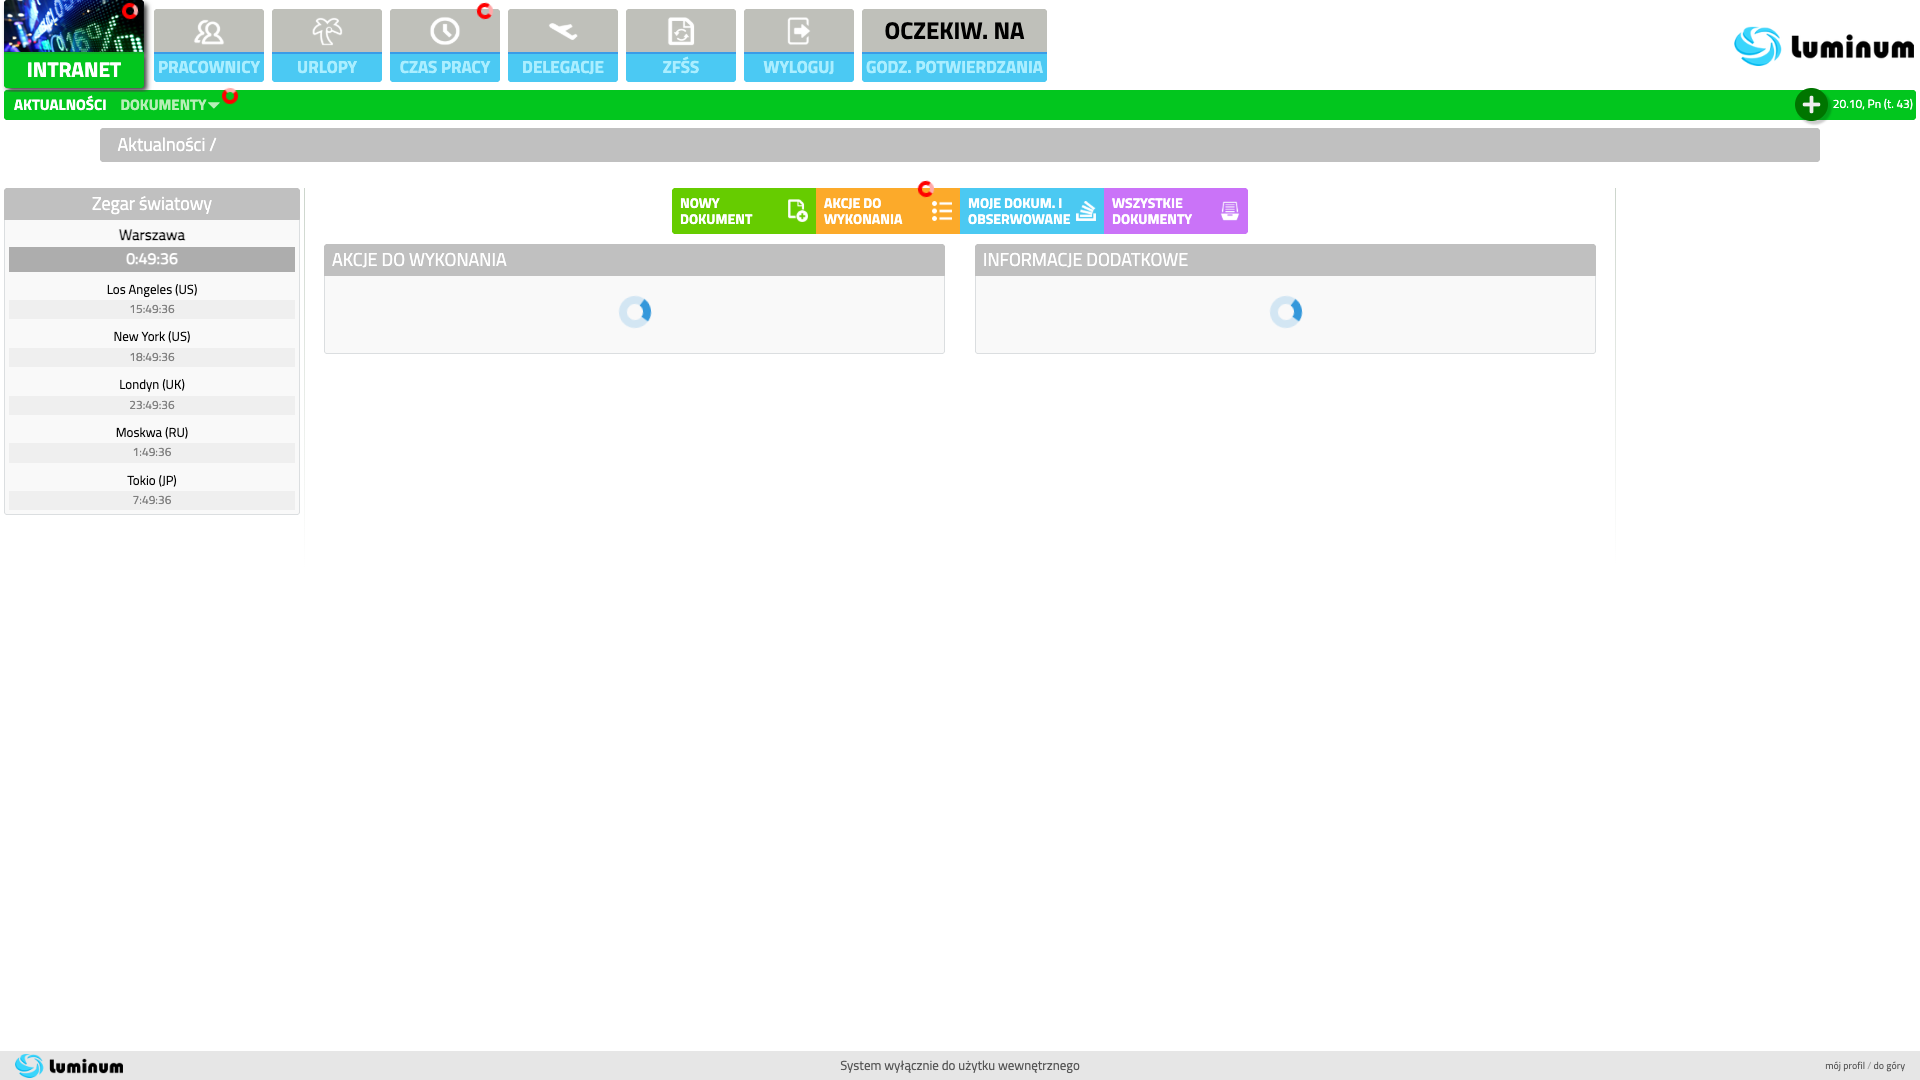
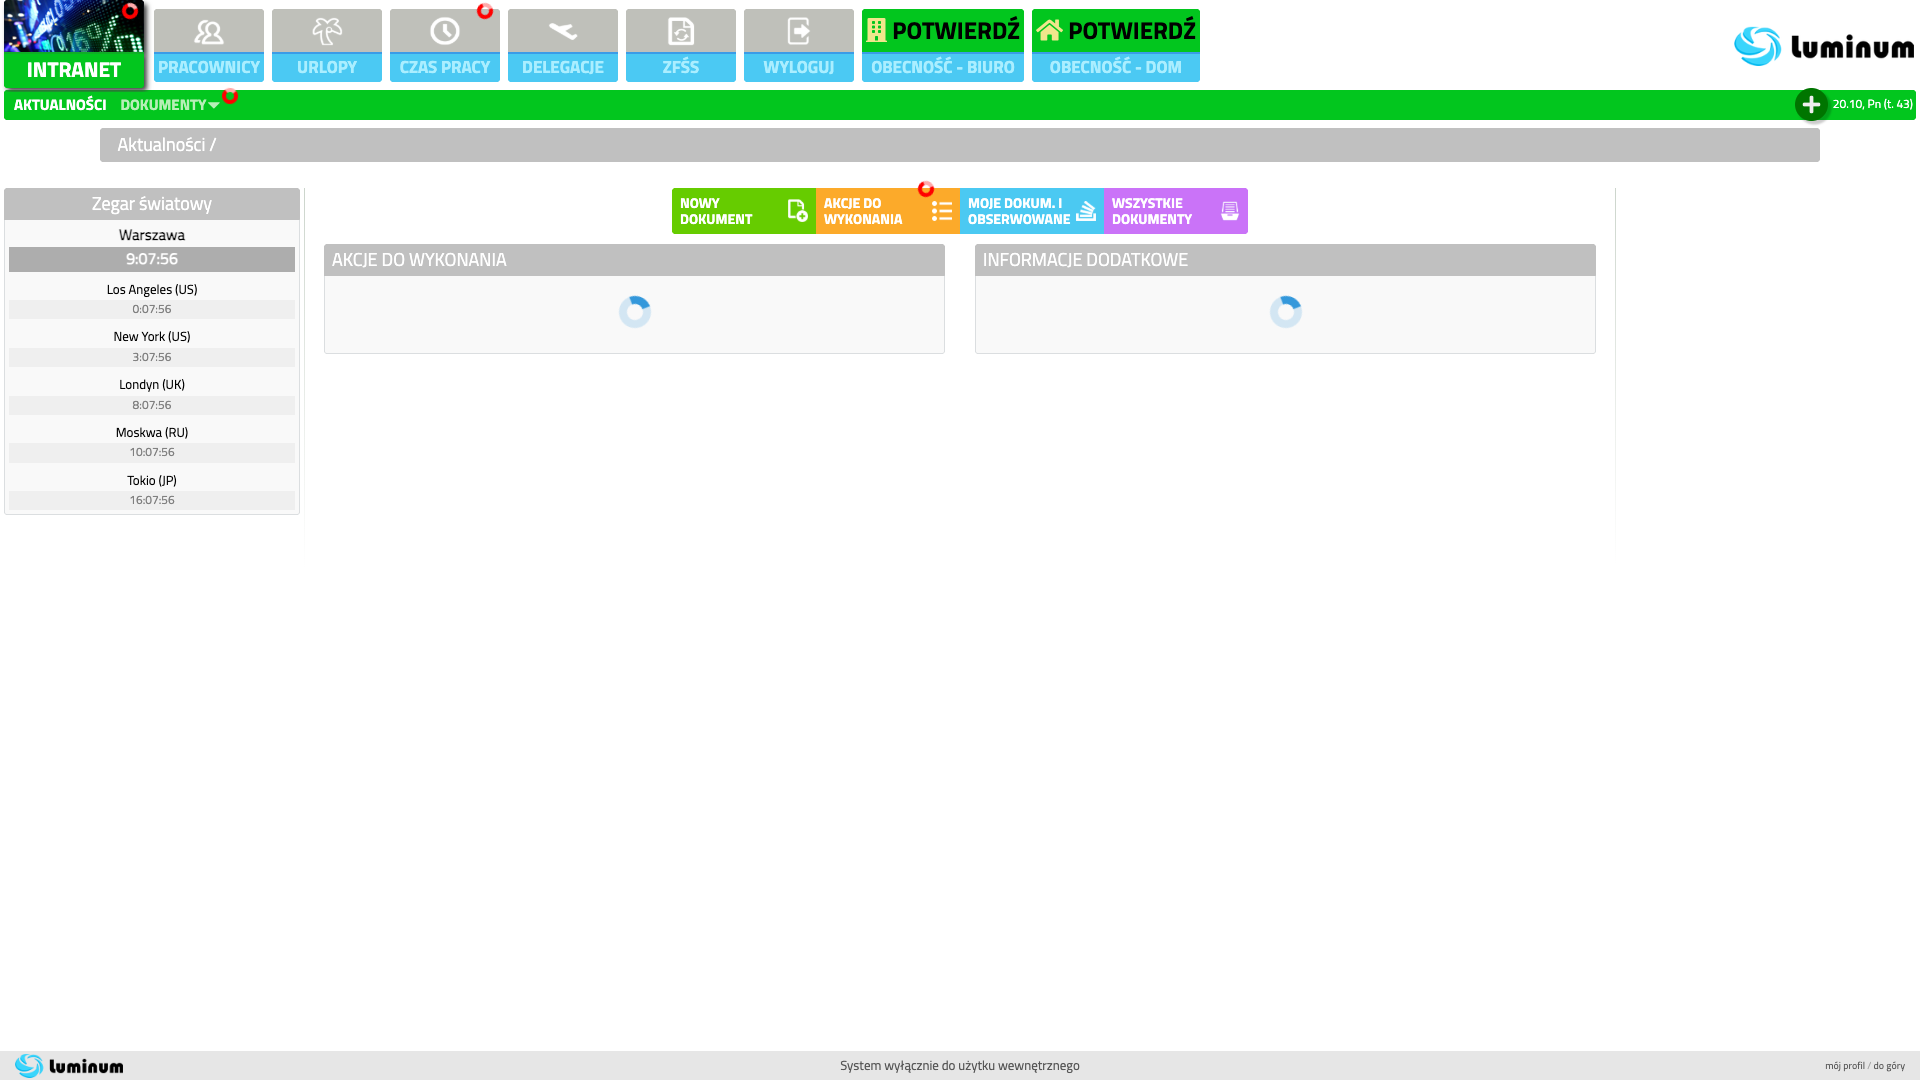
added proper cron

diff --git a/index.js b/index.js
@@ -39,13 +39,16 @@ const runCheckIn = async () => {
 
     // Find and click the element
     const xpath = `//div[contains(@class, 'tile-text') and normalize-space(.) = '${elementText}']`;
-    const [element] = await page.$x(xpath);
+    const elementHandle = await page.evaluateHandle((xpath) => {
+        const result = document.evaluate(xpath, document, null, XPathResult.FIRST_ORDERED_NODE_TYPE, null);
+        return result.singleNodeValue;
+    }, xpath);
 
-    if (element) {
-      await element.click();
-      console.log(`Successfully clicked "${elementText}"`);
+    if (elementHandle && (await elementHandle.asElement())) {
+        await elementHandle.asElement().click();
+        console.log(`Successfully clicked "${elementText}"`);
     } else {
-      throw new Error(`Element with text "${elementText}" not found`);
+        throw new Error(`Element with text "${elementText}" not found`);
     }
 
     await new Promise(resolve => setTimeout(resolve, 2000));
